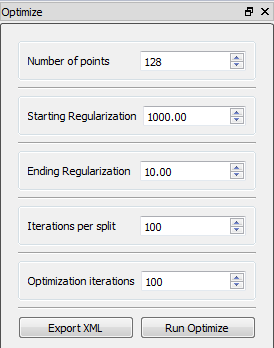
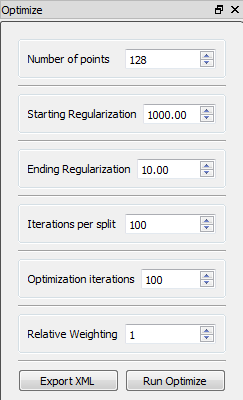
update readme and images.

diff --git a/README.md b/README.md
@@ -135,6 +135,8 @@ matrix of the correspondences during the optimization process. This range, along
 iterations, define the rate at which the system converges. The starting regularization decays to the ending
 regularization over the specified number of iterations.
 <br/><br/>
+*Relative Weighting* This is the value of parameter "alpha" from the energy equation [ Q=H(Z) - alpha * SUM_k H(x_k) ] 
+<br/><br/>
 *Run Optimize* Click this when you are ready for optimizing. This step takes time, but less than grooming.
 Output is put into a ShapeWorksStudioTools.log file next to the executable. A progress indicator shows the tool is working.
 <br/><br/>
